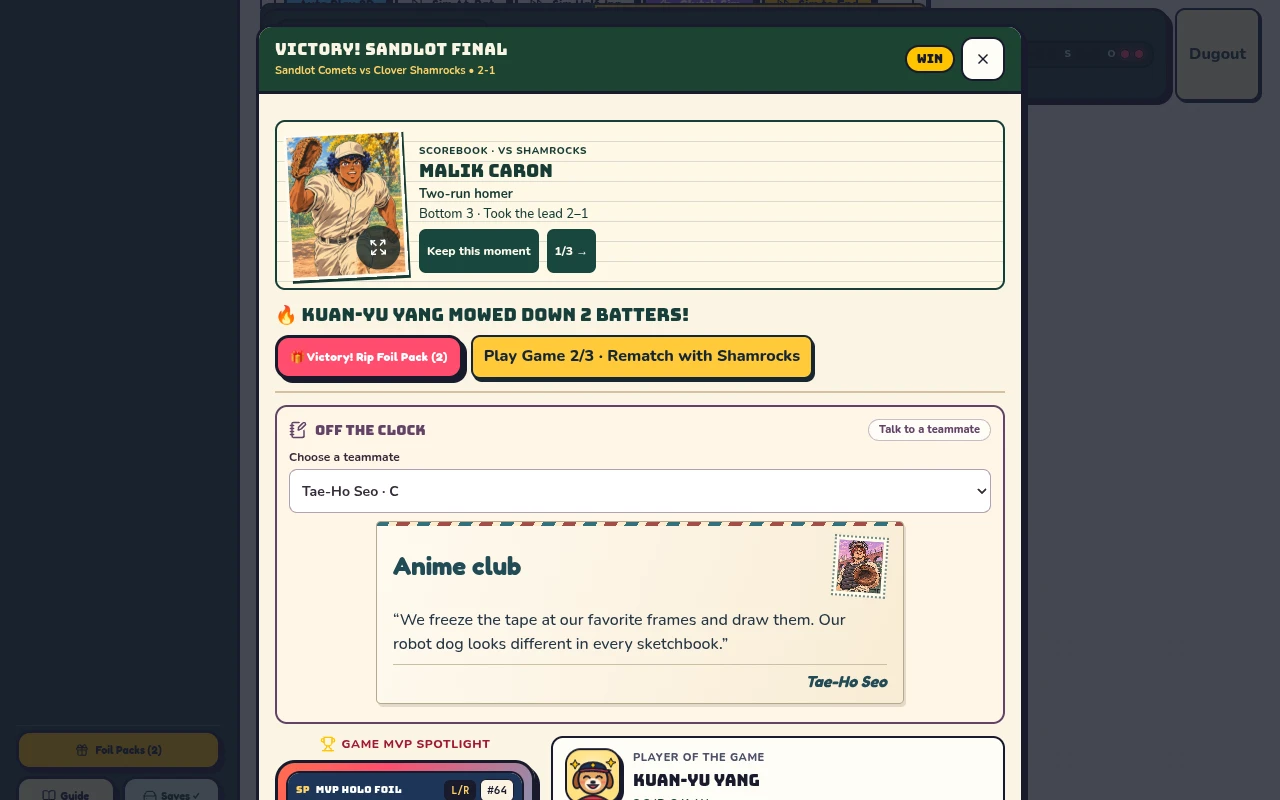
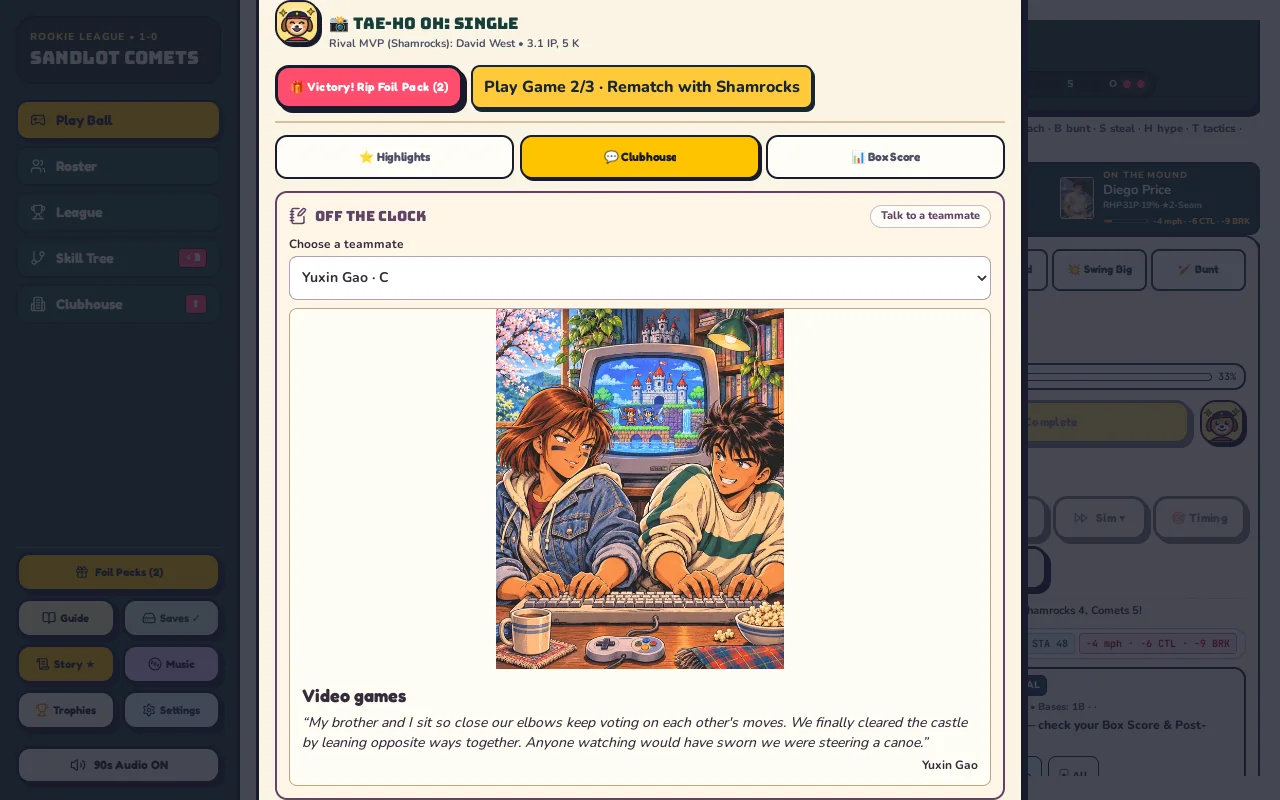
Verify the full Off the Clock catalog and refresh the album previews (TASK-097)

diff --git a/tests/e2e/offTheClock.spec.ts b/tests/e2e/offTheClock.spec.ts
@@ -6,10 +6,14 @@ test('talk to a teammate from the game recap and keep their off-field story', as
   await page.getByRole('button', {name:/^(Bat|Pitch) with /}).click();
   await page.getByRole('region', {name:'First at-bat'}).getByRole('button', {name:'More controls'}).click();
   const tactics = page.getByRole('button', {name:'Tactics', exact:true});
-  if (await tactics.isVisible()) await tactics.click();
+  if (await tactics.isVisible() && await tactics.getAttribute('aria-expanded') === 'false') {
+    await tactics.click();
+  }
   await page.getByTestId('fast-sim-toggle').click();
   await page.getByRole('button', {name:/sim to end/i}).click();
-  const conversation = page.getByRole('region', {name:'Off the Clock', exact:true});
+  const recap = page.getByRole('dialog', { name: /post-game box score/i });
+  await recap.getByRole('tab', { name: /clubhouse/i }).click();
+  const conversation = recap.getByRole('region', {name:'Off the Clock', exact:true});
   await conversation.getByText('Talk to a teammate').click();
   const select = conversation.getByRole('combobox', { name: 'Choose a teammate' });
   const option = select.locator('option[value^="mbm-"]').first();
@@ -18,7 +22,19 @@ test('talk to a teammate from the game recap and keep their off-field story', as
   await select.selectOption(id!);
   await conversation.getByRole('button', {name:'Ask about the clue'}).click();
   await expect(conversation.locator('figcaption')).toContainText(playerName);
-  await expect(conversation.locator('blockquote')).toBeVisible();
+  const quote = await conversation.locator('blockquote').innerText();
+  const print = conversation.locator('figure img');
+  await expect(print).toHaveJSProperty('naturalWidth', 560);
+  await expect(print).toHaveJSProperty('naturalHeight', 700);
   await conversation.scrollIntoViewIfNeeded();
   await page.screenshot({path:testInfo.outputPath('hobby-recap.png')});
+
+  await recap.getByRole('button', { name: /back to clubhouse/i }).click();
+  await page.reload();
+  await page.getByTestId('open-trophy-case-btn').click();
+  const album = page.getByRole('region', { name: 'Off the Clock album' });
+  const entry = album.locator('details').filter({ has: page.locator('summary').filter({ hasText: playerName }) });
+  await entry.locator('summary').click();
+  await expect(entry.locator('blockquote')).toHaveText(quote);
+  await expect(entry.locator('figure img')).toHaveJSProperty('naturalWidth', 560);
 });

diff --git a/src/art/hobbies/hobbyPrint.test.ts b/src/art/hobbies/hobbyPrint.test.ts
@@ -13,3 +13,17 @@ it('pairs each personally authored story with its catalog player and WebP', () =
     expect(hobbyPrint(memory), id).toContain(id + '.webp');
   }
 });
+
+it('gives every fixed catalog player a distinct illustrated memory', () => {
+  const clues = new Set<string>();
+  const quotes = new Set<string>();
+  for (const player of PLAYER_CATALOG_BY_ID.values()) {
+    const hobby = getPlayerHobby(player);
+    const memory = { playerId: player.id, playerName: player.name, hobbyId: hobby.id, ...hobby };
+    expect(hobbyPrint(memory), player.id).toContain(player.id + '.webp');
+    clues.add(hobby.clue);
+    quotes.add(hobby.quote);
+  }
+  expect(clues.size).toBe(PLAYER_CATALOG_BY_ID.size);
+  expect(quotes.size).toBe(PLAYER_CATALOG_BY_ID.size);
+});

diff --git a/docs/TASKS.md b/docs/TASKS.md
@@ -277,7 +277,7 @@
 | TASK-094 | DONE | 3-Audience First-Time Hook & Quality-of-Life Overhaul: (10yo) discoverable `🎯 Timing` pill in Guided `FirstAtBat` + collapsible Smart Watch rules; (14yo) immediately visible illustrated `Off the Clock` teammate card in post-game recap (with Sandlot Postcard portrait/initials fallback) + live tappable Dugout Mascot Buddy + 1-tap `⭐ Star Favorite` & `🎨 Design Jerseys` between-game spotlights; (18–99 fan) `Due Up: R · L · L` + reliever Pitch Mix in Quick Bullpen Drawer & Pro Bullpen Phone + optional Pro `HOT` warmup `+2 CTL` bonus + 3-Mode Front Office Assistant GM (`Auto` / `Ask Me` / `Manual`) across Settings, Clubhouse HQ, Roster & Pre-Game. |
 | TASK-095 | DONE | Present hobbies awaiting artwork as signed player postcards across cards, recaps and the career album. |
 | TASK-096 | DONE | Off the Clock postcard batch 1. Illustrate the four remaining featured stories and author and illustrate 21 more player memories. Review the WebP prints in the album. |
-| TASK-097 | IN_PROGRESS | Complete the Off the Clock collection for all 3,000 catalog players. 3,000 of 3,000 player postcards reviewed and committed. |
+| TASK-097 | IN_PROGRESS | All 3,000 catalog players have a personal Off the Clock clue, story and 560 × 700 WebP. Each postcard and its saved quote were checked in the phone and desktop album. The repository-wide browser suite still reports live-game failures. |
 | TASK-098 | DONE | Living 3D Ballpark Atmosphere, Pitch Clarity & Impact Juice: synced `ballpark.update(elapsedSec, crowdExcitement)` and dt-based cloud drift, wired live weather (`parkWeather.ts` — Sunny / Golden Sunset / Night / Drizzle + wind-animated pennants) into `LiveGameCanvas`, replaced catcher target vertical stretch with `setCatchHeight` posture + faint reception ring, added batter swing follow-through, HR/K celebrations, 60ms impact hitstop (`impactTiming.ts`), 3D stadium HR fireworks (`stadiumCelebration.ts`), minimum screen-space contact callout legibility, behind-the-catcher default batting view (`over_shoulder_batter` across preview, idle, pitch delivery, and contact), and deduplicated signature power callouts. |
 | TASK-099 | DONE | Unified Zero-Scroll Mobile Cockpit & Desktop Broadcast Studio: unified Guided and Full Live games into a `100dvh` mobile cockpit with bottom thumb dock, contextual action chips, tappable mascot, and one unified `LiveBottomSheet` Tactics drawer (auto-closing on game completion); added a 2-column `1280×800` Desktop Broadcast Studio with accessible keyboard shortcuts (`Space`, `1/2/3`, `B`, `S`, `H`, `T`, `Esc`), `844×390` landscape 2-column layout, and pitch/swing animation lock preventing double-fires until each pitch or play completes. |
 | TASK-100 | DONE | First-60s 3-Audience Hook & Collectibles UI: 3-tab above-the-fold `PostGameSummaryModal` (`Highlights`, `Clubhouse`, `Box Score`), pull-first 3D corner-peel shimmer `FoilPackModal` with `relicPrint.ts` WebP artwork lookup, deterministic `375–465 FT` `ArcadeDerbyModal` with Hot Streak multiplier, standalone TV `StrikeZoneOverlay` K-Zone plot, and human-team-aware `DugoutCheerBubble` teammate cheers. |

diff --git a/README.md b/README.md
@@ -63,7 +63,9 @@ Each of the 3,000 players keeps their illustration when they change clubs. Open 
 
 ## Off the Clock
 
-After your first game, **Off the Clock** appears right inside your post-game recap with your teammate’s portrait and clue ready to tap (or inspect any roster card anytime). Pick anyone on the active roster, including the bench. Each conversation reveals a personal hobby, adds a signed note or Sandlot Postcard to your Trophy & Sticker Album and gives that teammate up to two morale points. You earn another conversation every two games, including games you simulate. More than 1,000 players have illustrated hobby stories. Look for Rico’s moonlit mecha, Wade’s star-lined dance jacket, or the tiny wool toaster Everth crocheted for his dad. For the rest of the roster, the signed postcard carries their baseball portrait as a postage stamp. Their initials stand in if the portrait is unavailable offline.
+After your first game, open **Off the Clock** on the **Clubhouse** tab of the post-game recap or on any active player’s roster card, including the bench. Ask about the clue to hear the player’s story, add their postcard to your Trophy & Sticker Album and give them up to two morale points. You earn another conversation every two games, including games you simulate.
+
+All 3,000 players have a personal clue, a story and a 560 × 700 WebP illustration. The album spans 78 hobbies. Look for the tiny wool toaster Everth crocheted for his dad, the dragon that knits while Kai’s sister types her password, or Tomás dancing in his kitchen while the coffee perks. If an older save recalls a different story or a print is unavailable offline, the album shows the saved title and quote on a signed postcard. The player’s baseball portrait serves as its postage stamp, with their initials as a fallback.
 
 [Phone album](docs/screenshots/hobby-album-phone.webp) · [Desktop album](docs/screenshots/hobby-album-desktop.webp) · [Phone recap](docs/screenshots/off-the-clock-mobile.webp) · [Desktop recap](docs/screenshots/off-the-clock-desktop.webp)
 

diff --git a/docs/ARCHITECTURE.md b/docs/ARCHITECTURE.md
@@ -27,7 +27,9 @@ flowchart LR
 
 ### Off the Clock
 
-`getPlayerHobby` resolves each fixed identity to a clue and story. Featured players have authored assignments. The remaining players draw deterministically from the first-edition shared pool or a locally rooted activity. Personal clues and quotes in `playerHobbyStories.ts` are pinned to the player’s catalog ID. Individual illustrations are 560 × 700 WebP assets keyed by that ID. The album checks the saved hobby and quote against the illustrated story before displaying its print. Earlier quotes keep their signed postcards.
+`getPlayerHobby` resolves each of the 3,000 fixed catalog IDs to a personal clue and quote. Nine featured players retain their original hobby-catalog text. The other 2,991 have a hobby, clue and quote pinned to their player ID in `playerHobbyStories.ts` and its batch files. Players outside the fixed catalog keep the seeded selection of shared or locally rooted activities. The service worker precaches the story data and caches the 560 × 700 WebP prints on demand.
+
+The album displays a player’s print when the saved hobby ID and quote match the illustrated story. It uses the saved title and quote. If the quote differs or the print is unavailable, the signed postcard uses the player’s portrait or initials as its stamp.
 
 The club earns a conversation on its first recorded game and every second game thereafter. Unused conversations carry into future seasons through `priorHobbyGames`. A discovery adds a snapshot to `Club.hobbyMemories` and up to two morale to that roster member in one state transition. The album keeps the snapshot through trades, retirement and save imports. Missing fields on older saves default to an empty album and credit for the current season’s record.
 

diff --git a/PLAN.md b/PLAN.md
@@ -48,7 +48,7 @@ TASK-088 keeps the Opening Day Customize button at the 44-pixel touch minimum on
 - [x] TASK-095 gives hobby stories a signed postcard with portrait postage or player initials when the art is unavailable.
 
 - [x] TASK-096 adds 25 illustrated Off the Clock postcards, bringing the album to 30 of 3,000 players.
-- [/] TASK-097 expands the album across the remaining catalog in groups of 25, with a progress check every 250 illustrated players. The first 1,000 have passed phone and desktop album checks.
+- [/] TASK-097 adds a personal illustrated memory for each of the 3,000 catalog players across 78 hobbies. Every postcard passed phone and desktop album checks. Earlier saved stories keep their original wording. Repository-wide browser verification remains open.
 - [x] TASK-098 brings the 3D ballpark alive with dynamic weather/lighting/wind pennants, dt-synced clouds & crowd excitement, 60ms barrel hitstop, 3D home run fireworks, clean catcher target posture, and a default behind-the-catcher batting camera.
 - [x] TASK-099 unifies mobile live play into a zero-scroll `100dvh` thumb cockpit with one Tactics bottom sheet, adds a 2-column Desktop Broadcast Studio with keyboard shortcuts (`Space`, `1/2/3`, `B`, `S`, `H`, `T`, `Esc`), and locks Swing/Throw Pitch controls until each pitch or play completes.
 - [x] TASK-100 upgrades the first-60s 3-audience hook with a 3-tab Post-Game modal (`Highlights` / `Clubhouse` / `Box Score`), 3D corner-peel Foil Pack reveals, deterministic HR Derby distance & Hot Streak rewards, a standalone TV K-Zone `StrikeZoneOverlay`, and live teammate `DugoutCheerBubble` reactions.
